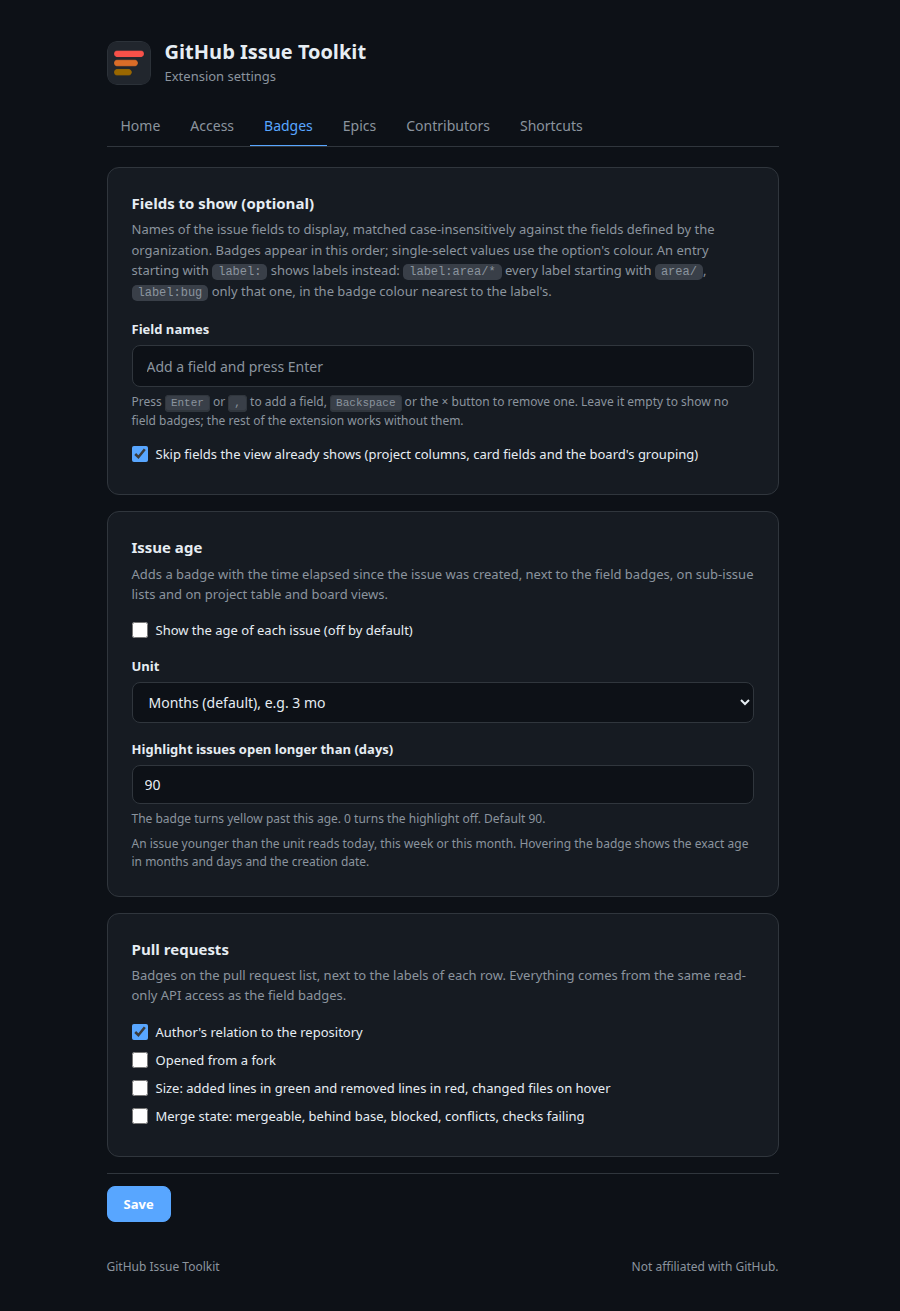
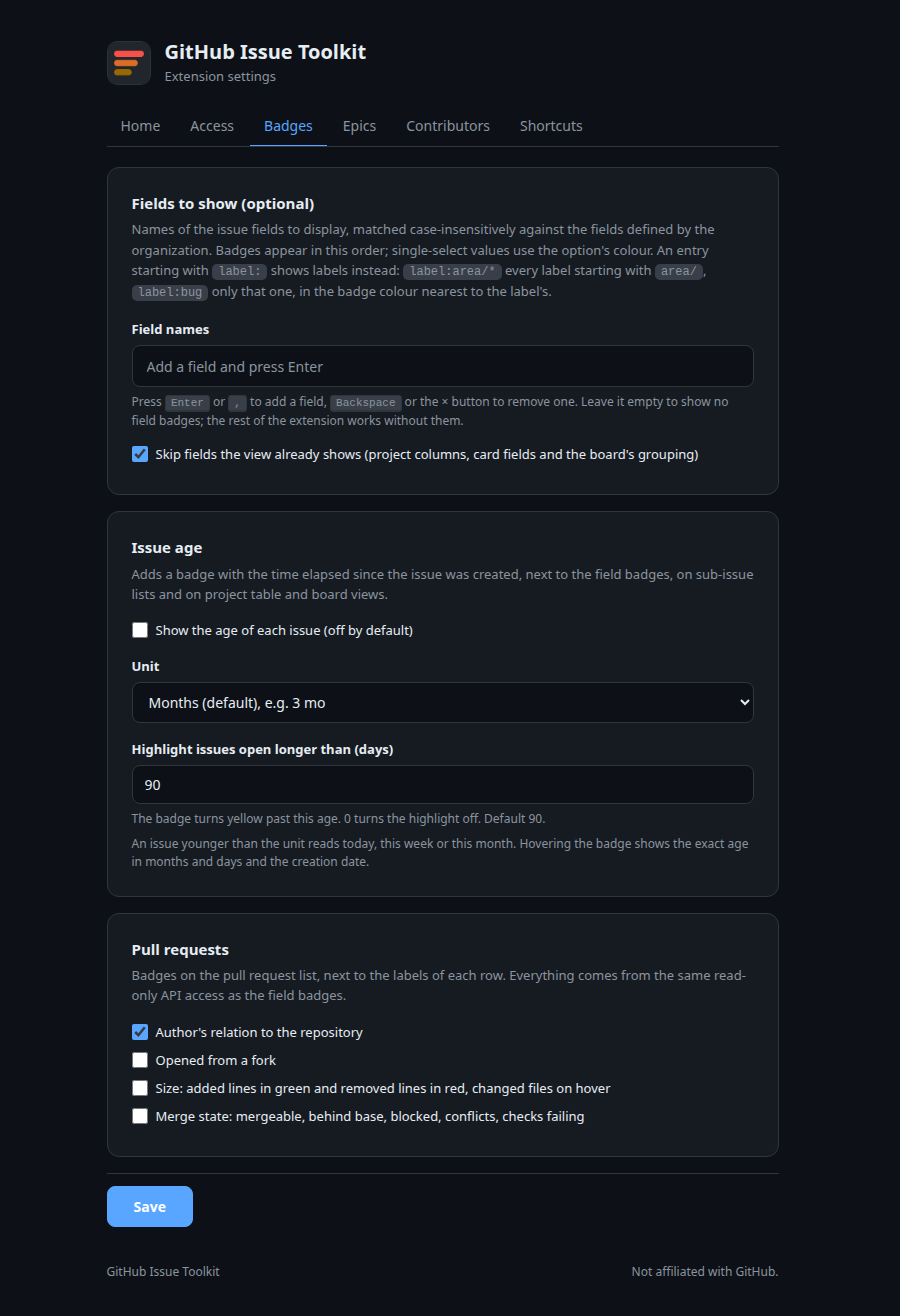
feat(settings): make the save button and its bar easier to notice (#42)
The Save button was a small button on a flat bar, easy to miss after
changing something on a long tab.

- Enlarge the button and lift the bar with a shadow
- Show Unsaved changes in the accent colour, with a ring around the
button and an accent rule on the bar, as soon as something is typed,
ticked, added or removed, and clear it when Save is pressed
- Note the change in the changelog

diff --git a/options.js b/options.js
@@ -50,6 +50,21 @@ const SHORTCUT_KINDS = { repo: "Repositories", issue: "Issues", pr: "Pull reques
 
 const TABS = ["home", "access", "badges", "epics", "contributors", "shortcuts"];
 const savebar = document.getElementById("savebar");
+const dirtyNote = document.getElementById("dirty");
+
+// Anything typed or ticked, a tag added or removed, is not saved until Save is pressed, and the bar says so.
+function markDirty() {
+  savebar.dataset.dirty = "1";
+  dirtyNote.hidden = false;
+}
+
+function clearDirty() {
+  delete savebar.dataset.dirty;
+  dirtyNote.hidden = true;
+}
+
+document.addEventListener("input", (e) => { if (e.target.closest && e.target.closest(".panel")) markDirty(); });
+document.addEventListener("change", (e) => { if (e.target.closest && e.target.closest(".panel")) markDirty(); });
 let currentTab = "";
 
 let fields = [];
@@ -126,6 +141,7 @@ function renderAssignWords() {
     remove.textContent = "×";
     remove.addEventListener("click", () => {
       assignWords.splice(i, 1);
+      markDirty();
       renderAssignWords();
       assignWordsInput.focus();
     });
@@ -139,6 +155,7 @@ function addAssignWords(raw) {
     if (!assignWords.some((w) => w.toLowerCase() === word.toLowerCase())) assignWords.push(word);
   }
   assignWordsInput.value = "";
+  markDirty();
   renderAssignWords();
 }
 
@@ -151,6 +168,7 @@ assignWordsInput.addEventListener("keydown", (e) => {
 assignWordsInput.addEventListener("blur", () => { if (assignWordsInput.value.trim()) addAssignWords(assignWordsInput.value); });
 document.getElementById("assign-reset").addEventListener("click", () => {
   assignWords = ASSIGN_DEFAULT_WORDS.slice();
+  markDirty();
   renderAssignWords();
 });
 
@@ -179,6 +197,7 @@ function renderChips() {
     remove.textContent = "×";
     remove.addEventListener("click", () => {
       fields.splice(i, 1);
+      markDirty();
       renderChips();
       fieldInput.focus();
     });
@@ -193,6 +212,7 @@ function addField(raw) {
     if (!fields.some((f) => f.toLowerCase() === name.toLowerCase())) fields.push(name);
   }
   fieldInput.value = "";
+  markDirty();
   renderChips();
 }
 
@@ -265,6 +285,7 @@ function renderShortcuts() {
     remove.addEventListener("click", () => {
       shortcuts.splice(i, 1);
       if (defaultShortcut >= i && defaultShortcut > 0) defaultShortcut--;
+      markDirty();
       renderShortcuts();
     });
     row.append(name, icon, kind, query, isDefault, remove);
@@ -274,6 +295,7 @@ function renderShortcuts() {
 
 document.getElementById("shortcut-add").addEventListener("click", () => {
   shortcuts.push({ name: "", icon: "", kind: "issue", query: "" });
+  markDirty();
   renderShortcuts();
   shortcutList.lastElementChild.querySelector("input").focus();
 });
@@ -392,6 +414,7 @@ document.getElementById("save").addEventListener("click", async () => {
   if (!hasChrome) return setStatus("Preview mode: nothing saved.", false);
   await api.storage.local.set({ token, fields: fieldList, ageEnabled: ageEnabled.checked, ageUnit: ageUnit.value, ageWarnDays: Math.max(0, parseInt(ageWarn.value, 10) || 0), pinsEnabled: pinsEnabledInput.checked, skipShownFields: skipShownInput.checked, kanbanEnabled: kanbanEnabledInput.checked, kanbanDrag: kanbanDragInput.checked, sidebarToggle: sidebarToggleInput.checked, hideProjectsSection: hideProjectsInput.checked, prAssociation: prInputs.prAssociation.checked, prFork: prInputs.prFork.checked, prSize: prInputs.prSize.checked, prMergeState: prInputs.prMergeState.checked, loadEnabled: loadEnabledInput.checked, loadAuto: loadAutoInput.checked, loadMembers: loadMembersInput.checked, assignEnabled: assignEnabledInput.checked, assignWords: assignWords.join(", "), profileEnabled: profileEnabledInput.checked, profileOrgs: profileOrgsInput.value.split(",").map((x) => x.trim().replace(/^@/, "")).filter(Boolean).slice(0, 3).join(", "), loadRegular: Math.max(1, parseInt(loadRegular.value, 10) || 5), loadLimit: Number.isFinite(parseInt(loadLimit.value, 10)) ? Math.max(0, parseInt(loadLimit.value, 10)) : 1, progressEnabled: progressEnabledInput.checked, progressScopeField: progressScope.value.trim(), progressDoneField: progressDoneField.value.trim(), progressDoneValue: progressDoneValue.value.trim(), searchShortcuts: search.list, searchDefault: search.defaultName });
   renderHomeToken(token);
+  clearDirty();
   if (!token) setStatus("Saved without a token. Badges need one.", false);
   else setStatus("Saved. Reload the GitHub tab if badges do not appear.", true);
 });

diff --git a/options.html b/options.html
@@ -132,6 +132,7 @@
     .chips-list { display: flex; flex-wrap: wrap; gap: 6px; margin-top: 10px; }
     button.linklike { all: unset; color: var(--accent); cursor: pointer; font-size: 12px; }
     button.linklike:hover { text-decoration: underline; }
+    @media (prefers-color-scheme: dark) { .savebar { box-shadow: 0 -6px 16px rgba(0, 0, 0, 0.45); } .savebar[data-dirty] #save { box-shadow: 0 0 0 3px rgba(88, 166, 255, 0.35); } }
     .chip.c0 { --chip-bg: rgba(9, 105, 218, 0.12); --chip-border: rgba(9, 105, 218, 0.4); --chip-fg: #0969da; }
     .chip.c1 { --chip-bg: rgba(130, 80, 223, 0.12); --chip-border: rgba(130, 80, 223, 0.4); --chip-fg: #8250df; }
     .chip.c2 { --chip-bg: rgba(26, 127, 55, 0.12); --chip-border: rgba(26, 127, 55, 0.4); --chip-fg: #1a7f37; }
@@ -163,7 +164,13 @@
     .tour b { font-weight: 600; font-size: 14px; }
     .tour span { color: var(--text-secondary); font-size: 13px; }
     .savebar { position: fixed; left: 0; right: 0; bottom: 0; z-index: 10; display: flex; align-items: center; gap: 10px; padding: 12px max(24px, calc(50% - 336px)); background: var(--bg-base); border-top: 1px solid var(--border-default); }
-    .preview .savebar { position: static; padding: 12px 0; margin-top: 8px; }
+    .savebar { box-shadow: 0 -6px 16px rgba(31, 35, 40, 0.1); }
+    .savebar[data-dirty] { border-top-color: var(--accent); }
+    #save { padding: 10px 26px; font-size: 14px; }
+    .savebar[data-dirty] #save { box-shadow: 0 0 0 3px rgba(9, 105, 218, 0.28); }
+    .dirty { display: inline-flex; align-items: center; gap: 6px; font-size: 13px; font-weight: 600; color: var(--accent); }
+    .dirty::before { content: ""; width: 8px; height: 8px; border-radius: 50%; background: var(--accent); }
+    .preview .savebar { position: static; padding: 12px 0; margin-top: 8px; box-shadow: none; }
     kbd { font: 11px var(--font-mono); padding: 1px 5px; border: 1px solid var(--border-default); border-bottom-width: 2px; border-radius: 4px; background: var(--code-bg); }
     footer { color: var(--text-secondary); font-size: 12px; margin-top: 24px; display: flex; justify-content: space-between; flex-wrap: wrap; gap: 8px; }
     .mono:empty { display: none; }
@@ -406,6 +413,7 @@
 
     <div class="savebar" id="savebar">
       <button id="save" class="primary" type="button">Save</button>
+      <span id="dirty" class="dirty" hidden>Unsaved changes</span>
       <span id="status" role="status"></span>
     </div>
 

diff --git a/CHANGELOG.md b/CHANGELOG.md
@@ -22,6 +22,7 @@ All notable changes to this project are documented here. The format follows [Kee
 
 ### Changed
 
+- The Save button of the settings page is larger and its bar stands out with a shadow, and once something has been changed the bar says Unsaved changes, in the accent colour with a ring around the button, until Save is pressed.
 - Pressing the contributor button, or opening a profile, on a tab that was open when the extension was reloaded no longer throws a ReferenceError: the lookup now fails the way it should, with the message to reload the page.
 - Nothing is read for a contributor, apart from whether they belong to the organization, until their button is pressed, where hovering a name used to read it. Hovering only gives a name its button. A person is read once per repository and kept until the tab is closed instead of ten minutes, the card says how old the answer is, and its refresh button reads one person again. Changing a setting no longer forgets what was read.
 - The card opens once a person has been looked up even if the page rebuilt the comment header and dropped the button that was pressed, and a button the page dropped is put back at the next scan.
